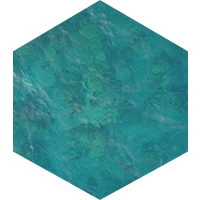
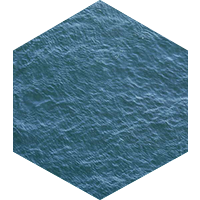
fixed sondres crappy textures

diff --git a/hexagon.css b/hexagon.css
@@ -24,7 +24,7 @@ body {
   height: 57.74px;
   z-index: 0;
   margin: 28.87px 0;
-  background-image: url(https://raw.githubusercontent.com/SondreFroyland/Civilization/master/Sj%C3%B8.png);
+  background-image: url(Sjø.png);
   background-size: auto 115.4701px;
   background-position: center;
 }
